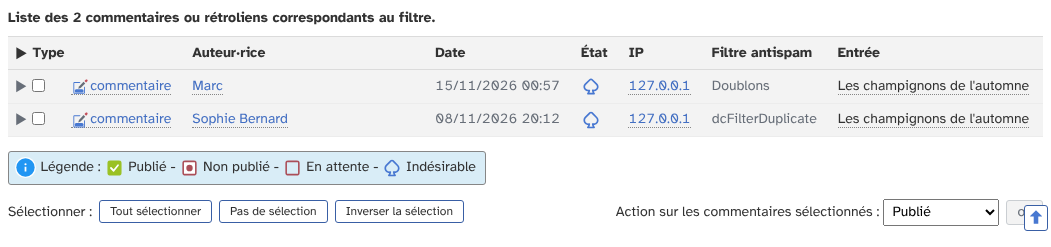
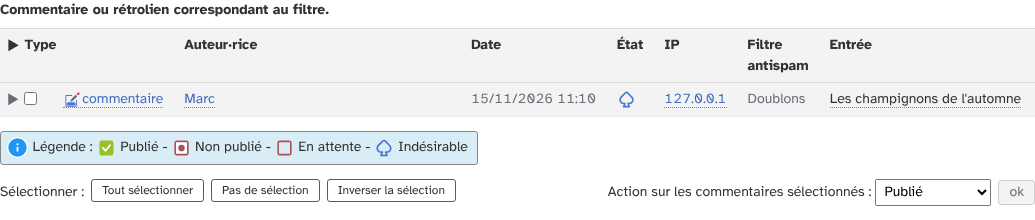
[cosmetic] User guide: follow the duplicates fixes, new junk comments screenshot

diff --git a/docs/fr/utilisation.md b/docs/fr/utilisation.md
@@ -58,7 +58,7 @@ Un commentaire en double sur le même blog n'est pas repéré à lui seul.
 
 Allez dans _Blog_ puis _Commentaires_ et ouvrez la liste des commentaires indésirables.
 
-La colonne _Filtre antispam_ indique ce qui a classé chaque commentaire. Le message est « Duplicate on other blog ».
+La colonne _Filtre antispam_ indique ce qui a classé chaque commentaire : ici _Doublons_. Dans la fiche du commentaire, le message est « Filtré par Doublons (Doublon sur un autre blog) ».
 
 ![Commentaires classés par le filtre](img/commentaires-indesirables.png)
 
@@ -67,6 +67,5 @@ Pour récupérer un commentaire à tort, cochez-le et choisissez l'action _Publi
 ## Bon à savoir
 
 * Le contenu est comparé tel quel, caractère pour caractère. Une virgule en plus suffit pour qu'il ne soit plus reconnu.
-* Quand un doublon est trouvé, tous les commentaires de même contenu et de même adresse IP sont classés indésirables, **y compris ceux du blog courant** qui n'ont rien à voir avec le doublon.
+* Quand un doublon est trouvé, seuls les commentaires des **autres blogs** sont aussi classés indésirables. Ceux du blog courant restent traités par les autres filtres antispam.
 * Le commentaire de l'autre blog est classé indésirable sans qu'aucun message ne vous soit montré. Pensez à regarder les indésirables de vos autres blogs.
-* Dans la liste des indésirables, le filtre apparaît sous le nom « Doublons » pour le nouveau commentaire, et sous le nom interne « dcFilterDuplicate » pour les commentaires déjà présents.
